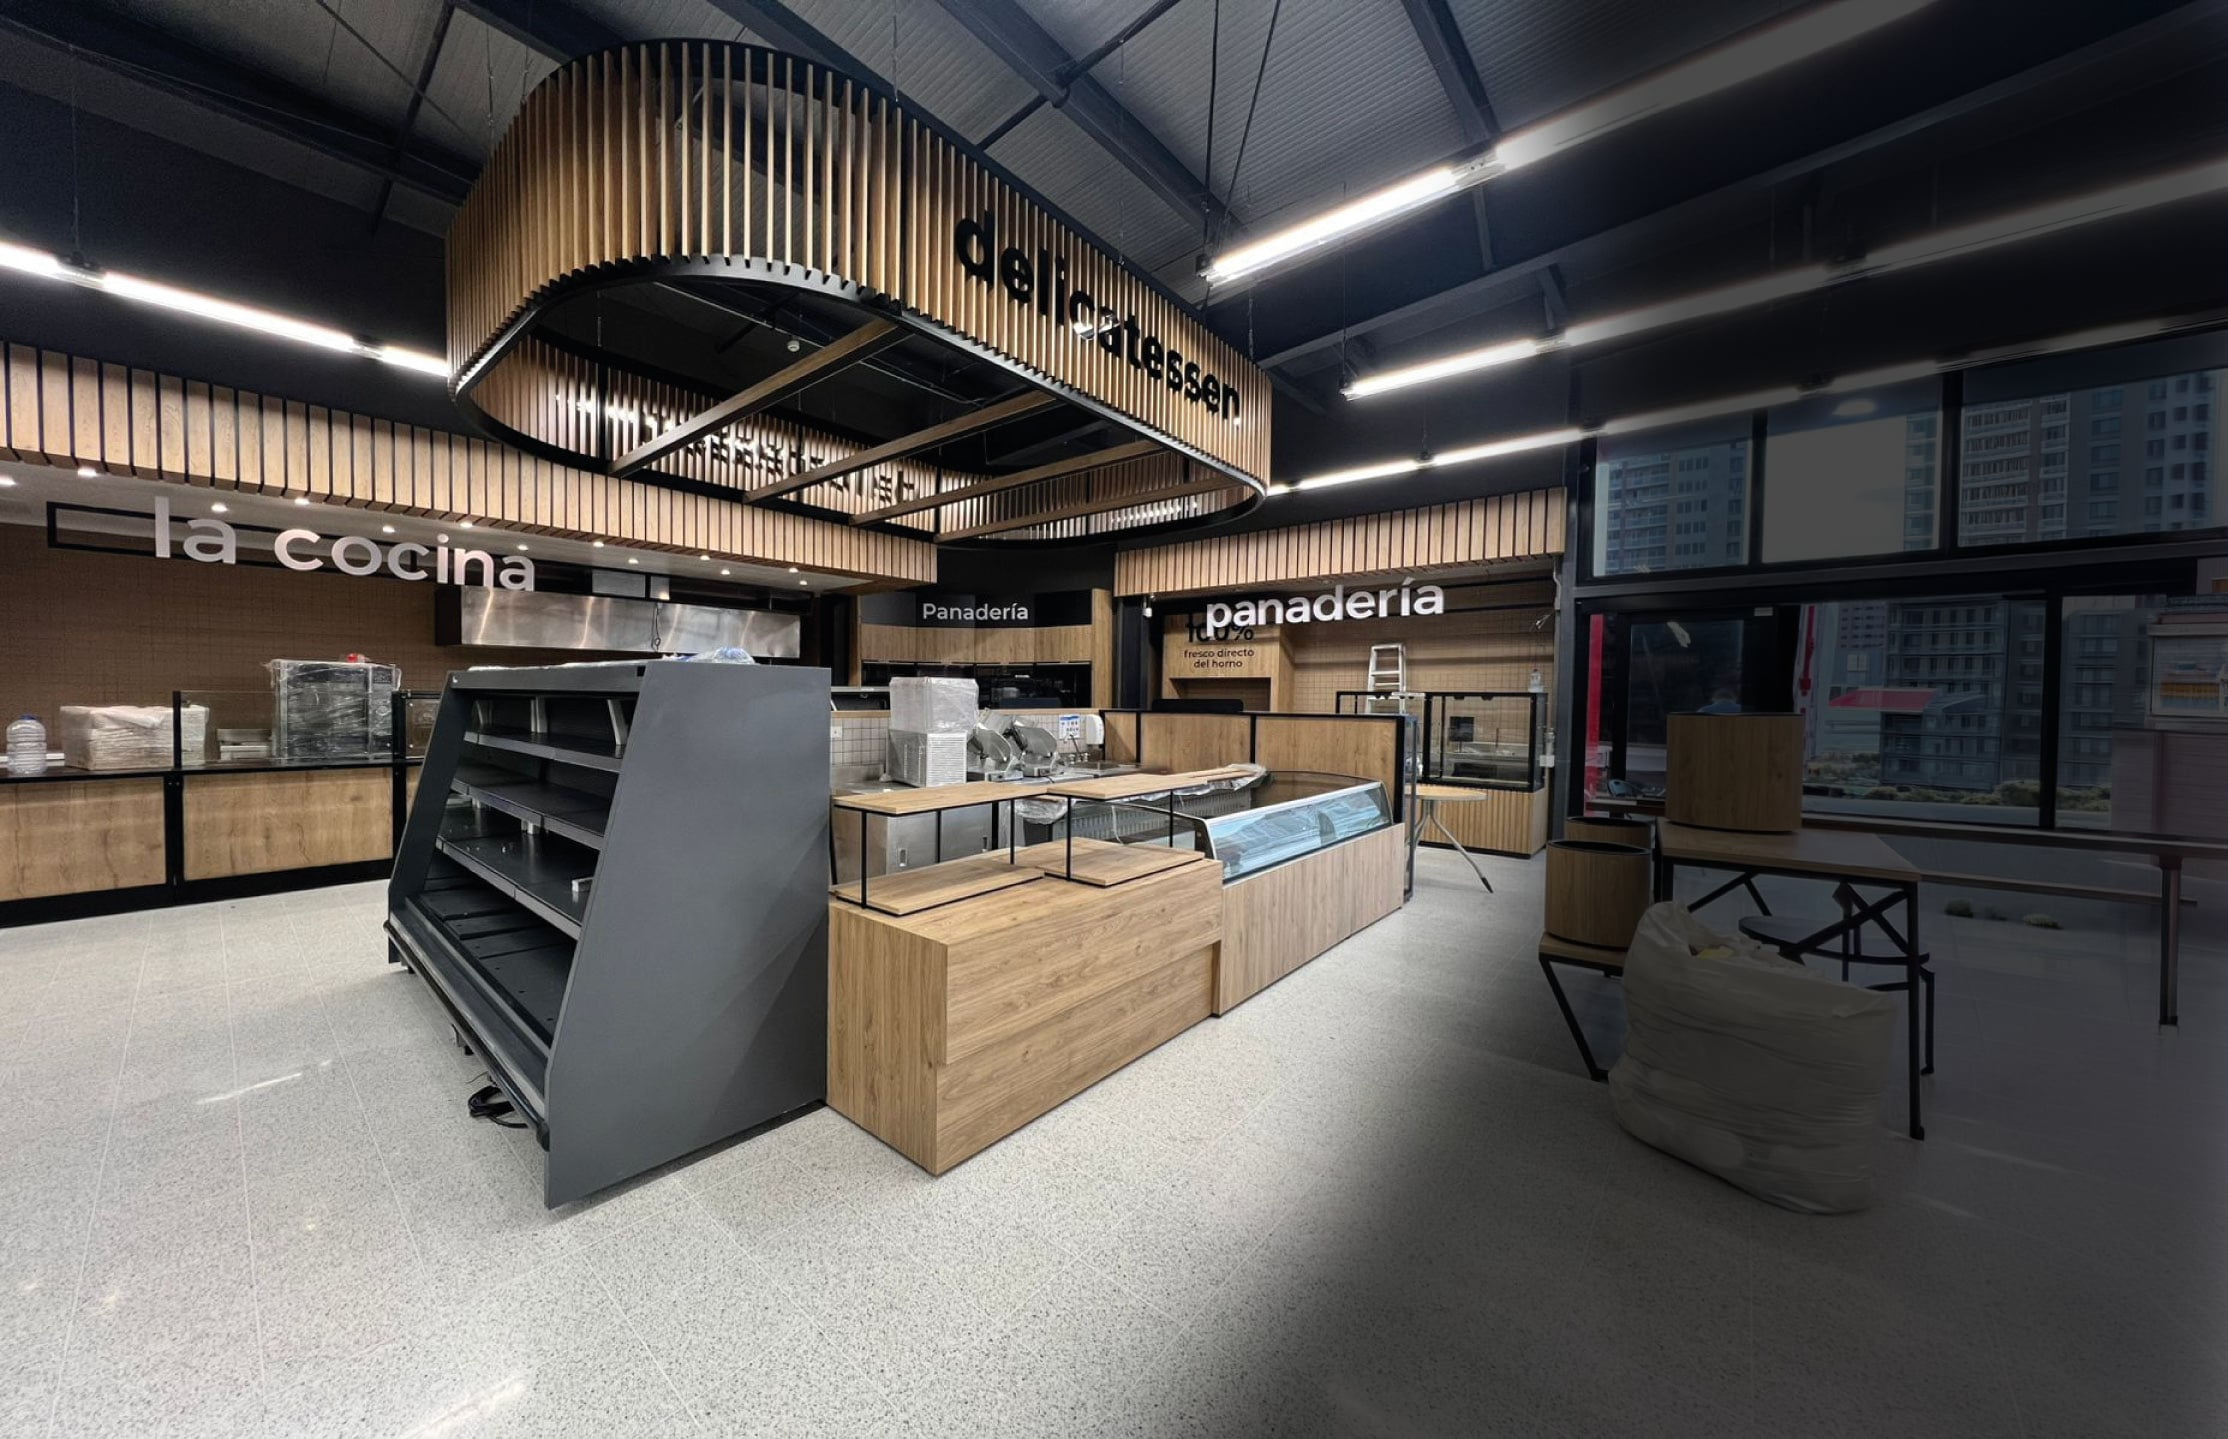
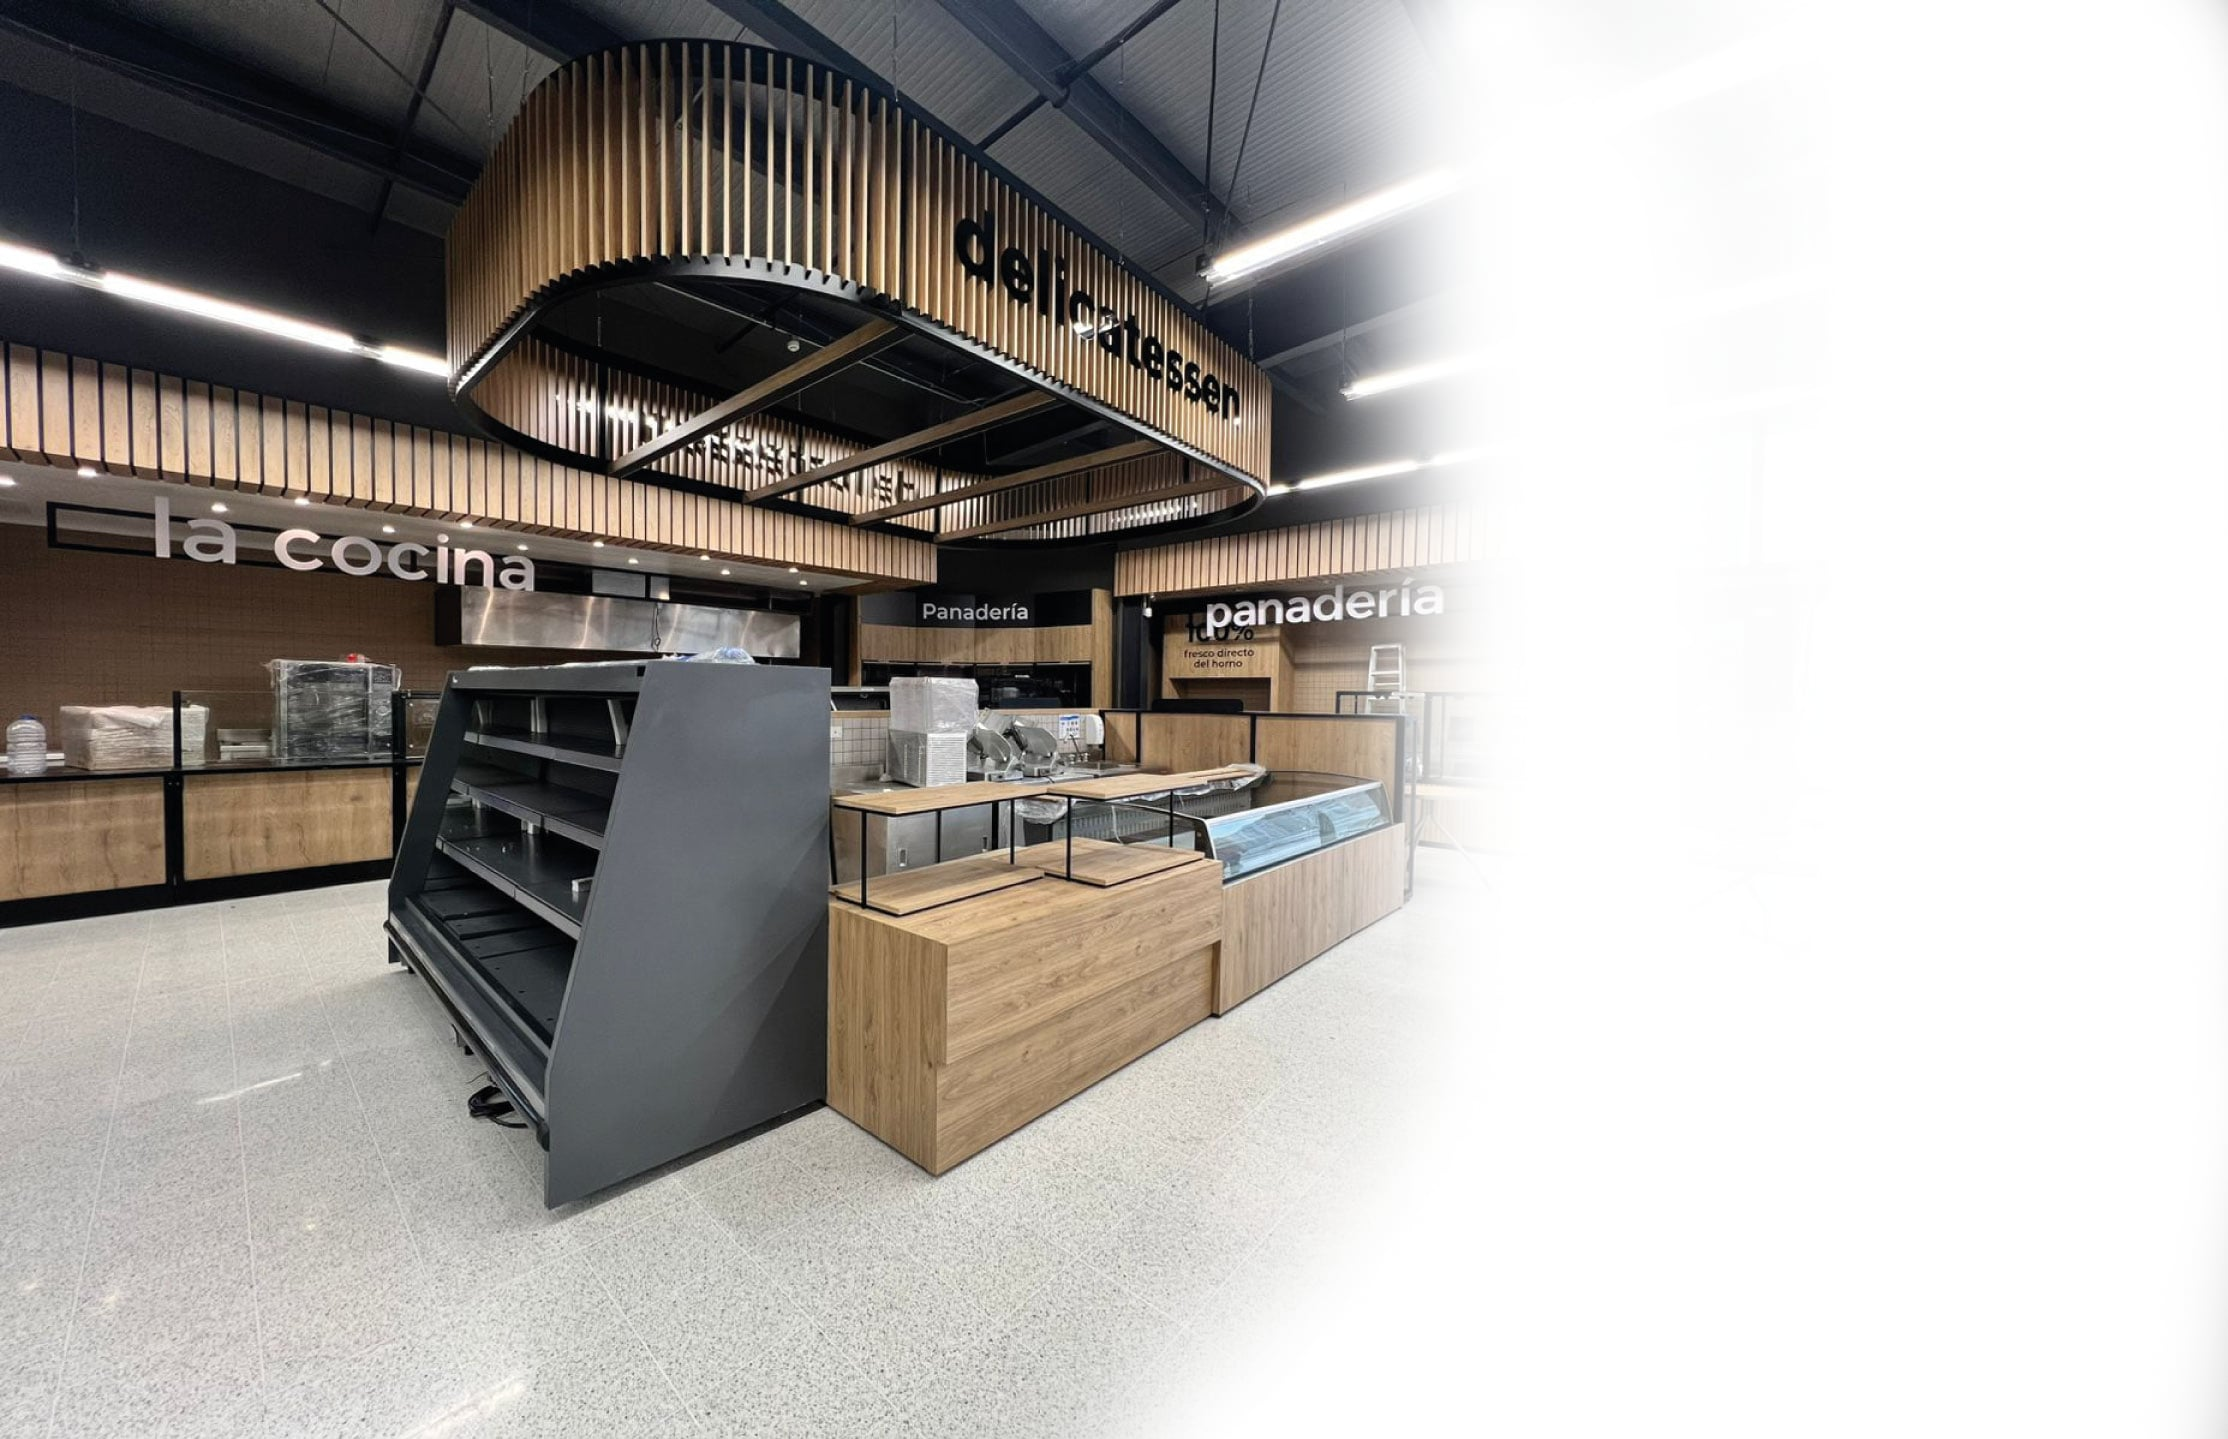
Swap hero slides 1-2 images and self-host presentation video
- Hero slide 1: updated delicatessen-gondoleria banner (client's latest export)
- Hero slide 2: replace metalmecanica placeholder with carpinteria-router photo
- VideoPopup: serve presentation video from public/videos instead of YouTube embed

diff --git a/app/components/VideoPopup.tsx b/app/components/VideoPopup.tsx
@@ -4,9 +4,7 @@ import { useEffect, useState } from 'react'
 import { motion, AnimatePresence } from 'framer-motion'
 import { X } from 'lucide-react'
 
-const VIDEO_ID = '0AbKtqEudZY'
-const YOUTUBE_EMBED_URL =
-  `https://www.youtube-nocookie.com/embed/${VIDEO_ID}?autoplay=1&mute=1&controls=0&modestbranding=1&rel=0&iv_load_policy=3&disablekb=1&loop=1&playlist=${VIDEO_ID}`
+const VIDEO_SRC = '/videos/beyond-presentacion.mp4'
 
 export default function VideoPopup() {
   const [open, setOpen] = useState(false)
@@ -65,12 +63,13 @@ export default function VideoPopup() {
               borderRadius: '14px', overflow: 'hidden', background: '#000',
               boxShadow: '0 30px 90px rgba(0,0,0,0.55)',
             }}>
-              <iframe
-                src={YOUTUBE_EMBED_URL}
-                title="Beyond SAS"
-                allow="accelerometer; autoplay; clipboard-write; encrypted-media; gyroscope; picture-in-picture"
-                allowFullScreen
-                style={{ position: 'absolute', inset: 0, width: '100%', height: '100%', border: 0 }}
+              <video
+                src={VIDEO_SRC}
+                autoPlay
+                muted
+                loop
+                playsInline
+                style={{ position: 'absolute', inset: 0, width: '100%', height: '100%', objectFit: 'cover' }}
               />
             </div>
           </motion.div>

diff --git a/app/components/HeroScroll.tsx b/app/components/HeroScroll.tsx
@@ -18,7 +18,7 @@ const slideModels: Record<number, { path: string; cameraZ: number } | null> = {
 
 const imgSrcs = [
   '/images/destacados/delicatessen-gondoleria.jpg',
-  '/images/destacados/beyond_metalmecanica01.png',
+  '/images/destacados/carpinteria-router.jpg',
   '/images/portfolio/arq-efimera/img/04/isla_appleBANNER-.png',
 ]
 